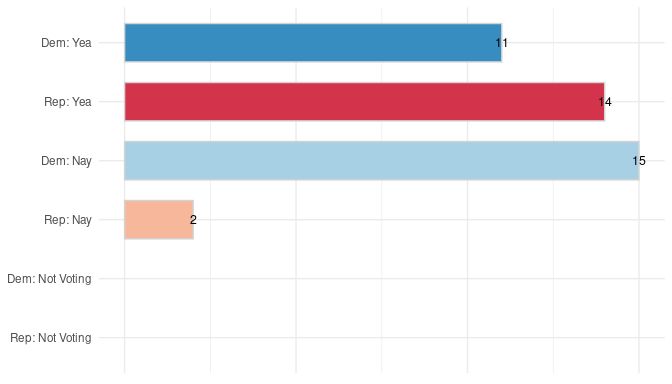
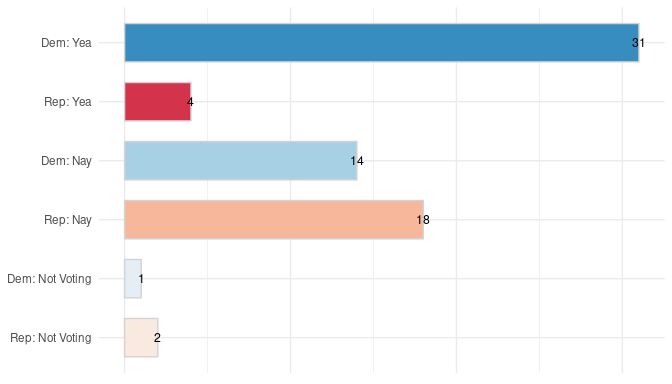
re

diff --git a/mapping-new-mexico.md b/mapping-new-mexico.md
@@ -1,8 +1,12 @@
-Census preliminaries
---------------------
+Mapping state legislative data
+==============================
+
+Census data
+-----------
+
+### Legislative geometries
 
 ``` r
-library(patchwork)
 library(tidyverse) 
 library(tigris); options(tigris_use_cache = TRUE, tigris_class = "sf")
 
@@ -13,15 +17,20 @@ nm_uppers <- tigris::state_legislative_districts(state = 'New Mexico',
 nm_lowers <- tigris::state_legislative_districts(state = 'New Mexico',
                                                  house = 'lower', cb = T) %>%
   mutate(district_code = as.integer(substr(SLDLST, 2, 3))) 
+```
 
+    ##   |                                                                              |                                                                      |   0%  |                                                                              |===                                                                   |   5%  |                                                                              |=====                                                                 |   7%  |                                                                              |========                                                              |  11%  |                                                                              |=========                                                             |  13%  |                                                                              |============                                                          |  18%  |                                                                              |==============                                                        |  20%  |                                                                              |=================                                                     |  24%  |                                                                              |==================                                                    |  26%  |                                                                              |=====================                                                 |  31%  |                                                                              |=======================                                               |  33%  |                                                                              |==========================                                            |  37%  |                                                                              |============================                                          |  39%  |                                                                              |===============================                                       |  44%  |                                                                              |================================                                      |  46%  |                                                                              |===================================                                   |  50%  |                                                                              |=====================================                                 |  52%  |                                                                              |========================================                              |  57%  |                                                                              |=========================================                             |  59%  |                                                                              |============================================                          |  63%  |                                                                              |==============================================                        |  65%  |                                                                              |=================================================                     |  70%  |                                                                              |==================================================                    |  72%  |                                                                              |=====================================================                 |  76%  |                                                                              |=======================================================               |  78%  |                                                                              |==========================================================            |  83%  |                                                                              |===========================================================           |  85%  |                                                                              |==============================================================        |  89%  |                                                                              |================================================================      |  91%  |                                                                              |===================================================================   |  96%  |                                                                              |====================================================================  |  98%  |                                                                              |======================================================================| 100%
+
+``` r
 nm_counties <- tigris::counties(state = 'New Mexico', cb = T)
 ```
 
-### Variables
+    ##   |                                                                              |                                                                      |   0%  |                                                                              |                                                                      |   1%  |                                                                              |=                                                                     |   1%  |                                                                              |=                                                                     |   2%  |                                                                              |==                                                                    |   2%  |                                                                              |==                                                                    |   3%  |                                                                              |==                                                                    |   4%  |                                                                              |===                                                                   |   4%  |                                                                              |===                                                                   |   5%  |                                                                              |====                                                                  |   5%  |                                                                              |====                                                                  |   6%  |                                                                              |=====                                                                 |   7%  |                                                                              |=====                                                                 |   8%  |                                                                              |======                                                                |   8%  |                                                                              |======                                                                |   9%  |                                                                              |=======                                                               |   9%  |                                                                              |=======                                                               |  10%  |                                                                              |=======                                                               |  11%  |                                                                              |========                                                              |  11%  |                                                                              |========                                                              |  12%  |                                                                              |=========                                                             |  12%  |                                                                              |=========                                                             |  13%  |                                                                              |=========                                                             |  14%  |                                                                              |==========                                                            |  14%  |                                                                              |==========                                                            |  15%  |                                                                              |===========                                                           |  15%  |                                                                              |===========                                                           |  16%  |                                                                              |============                                                          |  16%  |                                                                              |============                                                          |  17%  |                                                                              |============                                                          |  18%  |                                                                              |=============                                                         |  18%  |                                                                              |=============                                                         |  19%  |                                                                              |==============                                                        |  19%  |                                                                              |==============                                                        |  20%  |                                                                              |==============                                                        |  21%  |                                                                              |===============                                                       |  21%  |                                                                              |===============                                                       |  22%  |                                                                              |================                                                      |  22%  |                                                                              |================                                                      |  23%  |                                                                              |=================                                                     |  24%  |                                                                              |=================                                                     |  25%  |                                                                              |==================                                                    |  25%  |                                                                              |==================                                                    |  26%  |                                                                              |===================                                                   |  26%  |                                                                              |===================                                                   |  27%  |                                                                              |===================                                                   |  28%  |                                                                              |====================                                                  |  28%  |                                                                              |====================                                                  |  29%  |                                                                              |=====================                                                 |  29%  |                                                                              |=====================                                                 |  30%  |                                                                              |=====================                                                 |  31%  |                                                                              |======================                                                |  31%  |                                                                              |======================                                                |  32%  |                                                                              |=======================                                               |  32%  |                                                                              |=======================                                               |  33%  |                                                                              |=======================                                               |  34%  |                                                                              |========================                                              |  34%  |                                                                              |========================                                              |  35%  |                                                                              |=========================                                             |  35%  |                                                                              |=========================                                             |  36%  |                                                                              |==========================                                            |  37%  |                                                                              |==========================                                            |  38%  |                                                                              |===========================                                           |  38%  |                                                                              |===========================                                           |  39%  |                                                                              |============================                                          |  39%  |                                                                              |============================                                          |  40%  |                                                                              |============================                                          |  41%  |                                                                              |=============================                                         |  41%  |                                                                              |=============================                                         |  42%  |                                                                              |==============================                                        |  42%  |                                                                              |==============================                                        |  43%  |                                                                              |==============================                                        |  44%  |                                                                              |===============================                                       |  44%  |                                                                              |===============================                                       |  45%  |                                                                              |================================                                      |  45%  |                                                                              |================================                                      |  46%  |                                                                              |=================================                                     |  47%  |                                                                              |=================================                                     |  48%  |                                                                              |==================================                                    |  48%  |                                                                              |==================================                                    |  49%  |                                                                              |===================================                                   |  49%  |                                                                              |===================================                                   |  50%  |                                                                              |===================================                                   |  51%  |                                                                              |====================================                                  |  51%  |                                                                              |====================================                                  |  52%  |                                                                              |=====================================                                 |  52%  |                                                                              |=====================================                                 |  53%  |                                                                              |======================================                                |  54%  |                                                                              |======================================                                |  55%  |                                                                              |=======================================                               |  55%  |                                                                              |=======================================                               |  56%  |                                                                              |========================================                              |  56%  |                                                                              |========================================                              |  57%  |                                                                              |========================================                              |  58%  |                                                                              |=========================================                             |  58%  |                                                                              |=========================================                             |  59%  |                                                                              |==========================================                            |  59%  |                                                                              |==========================================                            |  60%  |                                                                              |==========================================                            |  61%  |                                                                              |===========================================                           |  61%  |                                                                              |===========================================                           |  62%  |                                                                              |============================================                          |  62%  |                                                                              |============================================                          |  63%  |                                                                              |=============================================                         |  64%  |                                                                              |=============================================                         |  65%  |                                                                              |==============================================                        |  65%  |                                                                              |==============================================                        |  66%  |                                                                              |===============================================                       |  66%  |                                                                              |===============================================                       |  67%  |                                                                              |===============================================                       |  68%  |                                                                              |================================================                      |  68%  |                                                                              |================================================                      |  69%  |                                                                              |=================================================                     |  69%  |                                                                              |=================================================                     |  70%  |                                                                              |=================================================                     |  71%  |                                                                              |==================================================                    |  71%  |                                                                              |==================================================                    |  72%  |                                                                              |===================================================                   |  72%  |                                                                              |===================================================                   |  73%  |                                                                              |====================================================                  |  74%  |                                                                              |====================================================                  |  75%  |                                                                              |=====================================================                 |  75%  |                                                                              |=====================================================                 |  76%  |                                                                              |======================================================                |  76%  |                                                                              |======================================================                |  77%  |                                                                              |======================================================                |  78%  |                                                                              |=======================================================               |  78%  |                                                                              |=======================================================               |  79%  |                                                                              |========================================================              |  79%  |                                                                              |========================================================              |  80%  |                                                                              |========================================================              |  81%  |                                                                              |=========================================================             |  81%  |                                                                              |=========================================================             |  82%  |                                                                              |==========================================================            |  82%  |                                                                              |==========================================================            |  83%  |                                                                              |==========================================================            |  84%  |                                                                              |===========================================================           |  84%  |                                                                              |===========================================================           |  85%  |                                                                              |============================================================          |  85%  |                                                                              |============================================================          |  86%  |                                                                              |=============================================================         |  86%  |                                                                              |=============================================================         |  87%  |                                                                              |=============================================================         |  88%  |                                                                              |==============================================================        |  88%  |                                                                              |==============================================================        |  89%  |                                                                              |===============================================================       |  89%  |                                                                              |===============================================================       |  90%  |                                                                              |===============================================================       |  91%  |                                                                              |================================================================      |  91%  |                                                                              |================================================================      |  92%  |                                                                              |=================================================================     |  92%  |                                                                              |=================================================================     |  93%  |                                                                              |=================================================================     |  94%  |                                                                              |==================================================================    |  94%  |                                                                              |==================================================================    |  95%  |                                                                              |===================================================================   |  95%  |                                                                              |===================================================================   |  96%  |                                                                              |====================================================================  |  96%  |                                                                              |====================================================================  |  97%  |                                                                              |====================================================================  |  98%  |                                                                              |===================================================================== |  98%  |                                                                              |===================================================================== |  99%  |                                                                              |======================================================================|  99%  |                                                                              |======================================================================| 100%
+
+### Some relevant census variables
 
 ``` r
-## recall -- variable names change per estimate-type -- another reason to fully document -- 
-
+## recall -- variable names change per estimate-type --
 v_list <-  c(
   hs_higher = 'DP02_0067P',
   bachelors_higher = 'DP02_0068P',
@@ -64,8 +73,7 @@ v_list_5y <- y1$name
 names(v_list_5y) <- names(v_list)
 ```
 
-Get data
---------
+### Get ACS data
 
 ``` r
 nms <-  tidycensus::get_acs(geography = 'State Legislative District (Lower Chamber)',
@@ -77,8 +85,7 @@ nms <-  tidycensus::get_acs(geography = 'State Legislative District (Lower Chamb
   mutate(district_code = as.integer(substr(GEOID, 4, 5))) 
 ```
 
-Visualizing Cenus data
-----------------------
+### Visualizing Cenus data
 
 ``` r
 theme_guide <- function () {
@@ -91,6 +98,8 @@ theme_guide <- function () {
           legend.position = 'none', 
           complete = F) }
 ```
+
+#### Main plot
 
 ``` r
 geo <- nm_lowers %>%
@@ -117,8 +126,11 @@ main <- geo %>%
   theme_minimal() + theme_guide() +
   theme(legend.position = 'bottom') +
   theme(panel.background = 
-        element_rect(fill = '#d5e4eb', color = NA))
+        element_rect(fill = '#d5e4eb', color = NA)) +
+  ggtitle('New Mexico')
 ```
+
+#### Zoomed plots
 
 ``` r
 sub_geos <- c('Albuquerque, NM',
@@ -156,7 +168,11 @@ minis <- lapply(sub_geos, function(x) {
 ms <-  patchwork::wrap_plots(minis, nrow = 2)
 ```
 
+#### Patchwork
+
 ``` r
+library(patchwork)
+
 main + patchwork::wrap_plots(ms) + 
   #patchwork::plot_layout(ncol = 2, widths = c(3, 2)) +
   plot_annotation(
@@ -167,8 +183,8 @@ main + patchwork::wrap_plots(ms) +
 
 ![](mapping-new-mexico_files/figure-markdown_github/unnamed-chunk-10-1.png)
 
-Visualizing roll calls
-----------------------
+Mapping roll calls via Open States
+----------------------------------
 
 ``` r
 local_dir <- '/home/jtimm/jt_work/GitHub/packages/nmpols/data-raw/'
@@ -179,11 +195,10 @@ nm_openstates <- readRDS('nm_open_states_2019.rds')
 ### Some parameters
 
 ``` r
-# chamber <- 'lower'
-# bill_title <- 'EXEMPT NM FROM DAYLIGHT SAVINGS TIME'
-chamber <- 'upper'
-bill_title <- 'PERMANENT DAYLIGHT SAVING TIME'
-
+chamber <- 'lower'
+bill_title <- 'EXEMPT NM FROM DAYLIGHT SAVINGS TIME'
+# chamber <- 'upper'
+# bill_title <- 'PERMANENT DAYLIGHT SAVING TIME'
 
 if(chamber == 'upper') { 
   map_sf <- nm_uppers
@@ -250,7 +265,9 @@ summary2 <- nmp %>%
   #select(Yea, Nay, NV, Total)
 ```
 
-### Main plot
+### Visualizing roll calls
+
+#### Main plot
 
 ``` r
 nmp1 <- map_sf %>%
@@ -278,7 +295,7 @@ main1 <-  nmp1 %>%
   ggtitle(results)
 ```
 
-### Mini-plots
+#### Zoomed plots
 
 ``` r
 geo <- nmp1
@@ -310,7 +327,7 @@ minis <- lapply(sub_geos, function(x) {
 ms <-  patchwork::wrap_plots(minis, nrow = 2)
 ```
 
-### Full summary
+#### Full summary
 
 ``` r
 t2 <- gridExtra::tableGrob(summary2, 
